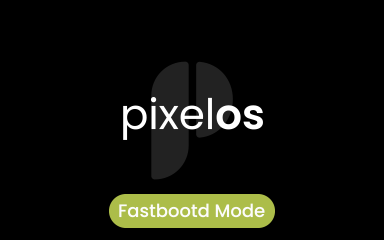
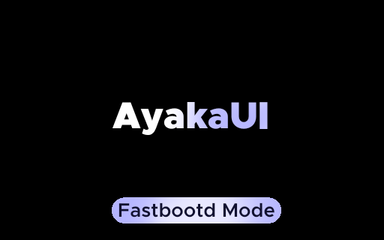
recovery: Initial UI rebrand for AyakaUI
thanks to @zedisspp for redesigned UI logo

Changed region(s): [[0.2812, 0.2625, 0.7188, 0.7583], [0.2812, 0.7875, 0.75, 0.9625]]

diff --git a/recovery_ui/screen_ui.cpp b/recovery_ui/screen_ui.cpp
@@ -579,7 +579,7 @@ void ScreenRecoveryUI::draw_foreground_locked() {
   }
 }
 
-/* pixel green: #a7be3c */
+/* pixel purple: #c8a2c8 */
 void ScreenRecoveryUI::SetColor(UIElement e) const {
   switch (e) {
     case UIElement::BATTERY_LOW:
@@ -589,17 +589,17 @@ void ScreenRecoveryUI::SetColor(UIElement e) const {
         gr_color(0xc7, 0x15, 0x85, 255);
       break;
     case UIElement::INFO:
-        gr_color(167, 190, 60, 255);
+        gr_color(200, 162, 200, 255);
       break;
     case UIElement::HEADER:
-        gr_color(167, 190, 60, 255);
+        gr_color(200, 162, 200, 255);
       break;
     case UIElement::MENU:
       gr_color(0xd8, 0xd8, 0xd8, 255);
       break;
     case UIElement::MENU_SEL_BG:
     case UIElement::SCROLLBAR:
-        gr_color(167, 190, 60, 255);
+        gr_color(200, 162, 200, 255);
       break;
     case UIElement::MENU_SEL_BG_ACTIVE:
       gr_color(0, 156, 100, 255);
